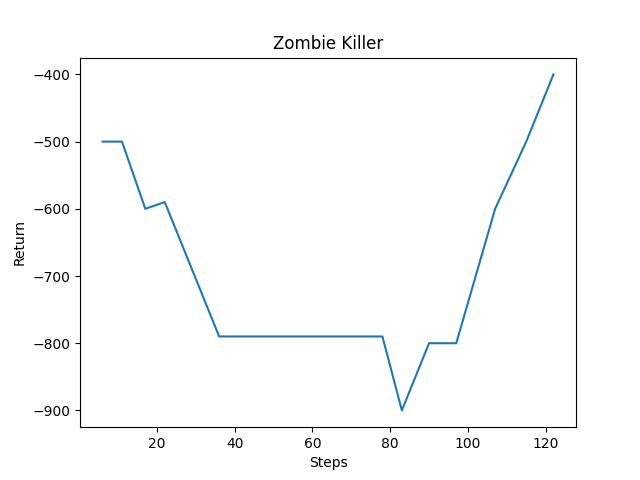
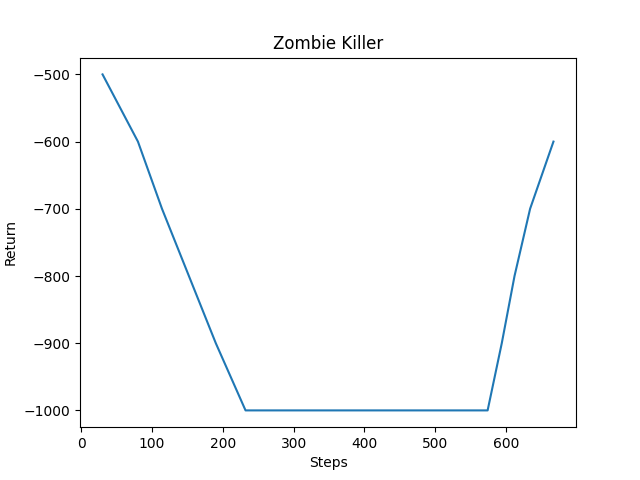
registering the returns properly now

diff --git a/src/world.py b/src/world.py
@@ -15,10 +15,11 @@ class World:
     Create the Malmo environment for a fight arena filled with zombies
     """
 
-    def __init__(self, size, obs_size,num_entities):
+    def __init__(self, size, obs_size,num_entities, episodes = 100):
         self.size = size
         self.obs_size = obs_size
         self.num_entities = num_entities
+        self.episodes = episodes
 
         # Create default Malmo objects:
 
@@ -103,7 +104,6 @@ class World:
                                 self.drawEntity("Zombie") + '''
                         </DrawingDecorator>
 
-                      <ServerQuitFromTimeUp timeLimitMs="15000"/>
                       <ServerQuitWhenAnyAgentFinishes/>
                     </ServerHandlers>
                   </ServerSection>
@@ -121,9 +121,6 @@ class World:
                         <RewardForDamagingEntity>
                             <Mob type="Zombie" reward="100"/>
                         </RewardForDamagingEntity>
-                        <RewardForMissionEnd rewardForDeath="-1000">
-                            <Reward description ="out_of_time" reward="-100"/>
-                        </RewardForMissionEnd>
                         <ObservationFromGrid>
                                 <Grid name="floorAll">
                                     <min x="-''' + str(int(self.obs_size / 2)) + '''" y="-1" z="-''' + str(
@@ -136,7 +133,8 @@ class World:
                             <Range name="entities" xrange="100" yrange="2" zrange="100" update_frequency="1"/>
                         </ObservationFromNearbyEntities>
                       <ObservationFromFullStats/>
-                      <ContinuousMovementCommands turnSpeedDegs="120"/>
+                      <DiscreteMovementCommands/>
+                      <AgentQuitFromReachingCommandQuota total="'''+str(self.episodes)+'''" />
                     </AgentHandlers>
                   </AgentSection>
                 </Mission>'''
@@ -180,7 +178,7 @@ class World:
 
         return self.world_state
 
-    def get_reward(self):
+    def get_reward(self, death, episode_steps):
         """
 
         :return: integer of the reward the agent received
@@ -192,7 +190,10 @@ class World:
             if add == 100:
                 print("hit zombie")
             reward += add
-
+        if death:
+            reward += -1000
+        if episode_steps >= self.episodes:
+            reward += -100
         return reward
 
 
@@ -209,7 +210,7 @@ class World:
             observation: a 2d array
         """
         #only look a obs_size by obs_sive around the agent
-        obs = np.zeros((self.obs_size, self.obs_size))
+        obs = np.zeros((self.obs_size, self.obs_size), dtype = np.float32)
         count = 0
         life = 0
 
@@ -224,19 +225,19 @@ class World:
                 msg = self.world_state.observations[-1].text
                 observations = json.loads(msg)
                 #print("observations", observations)
-                #print("observations full stats", observations['DamageTaken'], observations['Life'])
+                #print("observations full stats", observations[u'Life'])
 
                 # current location of the agent
                 # which will be center of the observation matrix
-                xpos, ypos, zpos = observations['XPos'], observations['YPos'], observations['ZPos']
-                yaw = observations['Yaw']
-                life = observations['Life']
-                #print("current", xpos,zpos)
+                xpos, ypos, zpos = observations[u'XPos'], observations[u'YPos'], observations[u'ZPos']
+                yaw = observations[u'Yaw']
+                life = observations[u'Life']
+                #print("current", xpos,zpos, yaw)
 
                 halfway = self.obs_size//2
 
                 # Get observation with location of all the zombies
-                entities = observations['entities']
+                entities = observations[u'entities']
                 #print("entitites", entities)
                 for e in entities:
 
@@ -244,11 +245,12 @@ class World:
                         count += 1
                         x = int(e['x'])
                         z = int(e['z'])
-                        #print("zombie location",x,z)
+
 
                         if abs(x-xpos) <= halfway and abs(z-zpos) <= halfway:
                              i = x - xpos + halfway
                              j = z - zpos + halfway
+                             #print("zombie location", x, z, i , j)
 
                              #had to flip i and j to match row and column to the x,z coords in malmo
                              obs[int(j)][int(i)] = 1
@@ -257,16 +259,16 @@ class World:
                 # need to fix the rotation of the observation
                 # axes of the observation are 1-d
                 # rotate it so the zombie in front of him is in front of him if we look at the matrix
-                #print("observations", obs)
+
                 # Rotate observation with orientation of agent
 
-                if yaw == 90:
+                if yaw == 270:
                     obs = np.rot90(obs, k=1)
-                elif yaw == 0:
+                elif yaw == 180:
                     obs = np.rot90(obs, k=2)
-                elif yaw == -90:
+                elif yaw == 90:
                     obs = np.rot90(obs, k=3)
-
+                #print("observation", obs)
                 break
 
 

diff --git a/src/train.py b/src/train.py
@@ -71,14 +71,14 @@ def main():
     #have the first layer of the DQN be the flattened size of the observation
 
     agent = Agent(alpha=LEARNING_RATE, gamma = GAMMA, epsilon = epsilon,
-                  input_dims = [OBS_SIZE,OBS_SIZE],batch_size = BATCH_SIZE,
+                  input_dims = (OBS_SIZE,OBS_SIZE),batch_size = BATCH_SIZE,
                   n_actions = len(ACTION_DICT), max_mem_size = 100000, eps_end = MIN_EPSILON,
                   eps_dec = EPSILON_DECAY)
 
 
 
     #create the Malmo world environment
-    world = World(size = SIZE, obs_size = OBS_SIZE, num_entities = 5)
+    world = World(size = SIZE, obs_size = OBS_SIZE, num_entities = 5, episodes = MAX_EPISODE_STEPS)
 
     # Init vars
     global_step = 0
@@ -109,11 +109,11 @@ def main():
 
         #get the first observation
         obs , zombies_count , health = world.get_observation()
-
+        death = False
         # Run the episode
         while world.is_mission_running:
-            print(".", end="")
-            time.sleep(0.1)
+            # print(".", end="")
+            # time.sleep(0.1)
 
             # Get action
             action_idx = agent.choose_action(obs)
@@ -124,7 +124,7 @@ def main():
             agent_host.sendCommand(command)
 
             # If your agent isn't registering reward you may need to increase this
-            time.sleep(2)
+            time.sleep(0.1)
 
             episode_step += 1
 
@@ -134,9 +134,12 @@ def main():
             # 3. episode has take maximum steps
             if zombies_count == 0 or health == 0 or episode_step >= MAX_EPISODE_STEPS:
                 done = True
+                if episode_step >= MAX_EPISODE_STEPS:
+                    agent_host.sendCommand("quit")
                 time.sleep(2)
 
-
+            if health == 0:
+                death = True
             # Get next observation
             world_state = world.get_world_state()
 
@@ -146,7 +149,7 @@ def main():
             next_obs, zombies_count, health = world.get_observation()
 
             # Get reward
-            reward = world.get_reward()
+            reward = world.get_reward(death, episode_steps = episode_step)
             episode_return += reward
 
             # Store step in replay buffer
@@ -158,6 +161,8 @@ def main():
             global_step += 1
             if global_step > START_TRAINING and global_step % LEARN_FREQUENCY == 0:
                 loss = agent.learn()
+                if loss == None:
+                    loss = 0
                 episode_loss += loss
 
 

diff --git a/src/agent.py b/src/agent.py
@@ -22,7 +22,7 @@ class DeepQNetwork(nn.Module):
         self.n_actions = n_actions   #number of actions
 
         #create the deep learning layers
-        self.fc1 = nn.Linear(*self.input_dims,self.fc1_dims)
+        self.fc1 = nn.Linear(np.prod(self.input_dims),self.fc1_dims)
         self.fc2 = nn.Linear(self.fc1_dims,self.fc2_dims)
         self.fc3 = nn.Linear(self.fc2_dims,self.n_actions)
 
@@ -39,12 +39,21 @@ class DeepQNetwork(nn.Module):
     def forward(self,state):
         """
 
-        :param state:
-        :return:
+        :param state: the observation or state of the agent right now
+        :return: the probabilities associated with each of the actions
         """
+        #flatten the observation matrix
 
-        x = F.relu(self.fc1(state))
-        x = F.relu(self.fc1(x))
+        #flattening the batch -> (batch_size, obs_size, obs_size)
+        if len(state.size()) > 2:
+            obs = T.flatten(state,start_dim=1,end_dim=2)
+        else:
+            #individual observation
+            obs = T.flatten(state)
+
+
+        x = F.relu(self.fc1(obs))
+        x = F.relu(self.fc2(x))
         actions = self.fc3(x)
 
         return actions
@@ -139,6 +148,7 @@ class Agent:
         :return: an int value that maps to a action in the action space
         """
 
+
         #choose the max q-value action
         if np.random.random() > self.epsilon:
             state = T.tensor([observation]).to(self.Q_eval.device)
@@ -169,10 +179,10 @@ class Agent:
         batch_index = np.arange(self.batch_size, dtype=np.int32)
 
         #prepare the batch
-        state_batch = T.tensor(self.state_memory[batch].to(self.Q_eval.device))
-        new_state_batch = T.tensor(self.new_state_memory[batch].to(self.Q_eval.device))
-        reward_batch = T.tensor(self.reward_memory[batch].to(self.Q_eval.device))
-        terminal_batch = T.tensor(self.terminal_memory[batch].to(self.Q_eval.device))
+        state_batch = T.tensor(self.state_memory[batch]).to(self.Q_eval.device)
+        new_state_batch = T.tensor(self.new_state_memory[batch]).to(self.Q_eval.device)
+        reward_batch = T.tensor(self.reward_memory[batch]).to(self.Q_eval.device)
+        terminal_batch = T.tensor(self.terminal_memory[batch]).to(self.Q_eval.device)
 
         action_batch = self.action_memory[batch]
 
@@ -195,7 +205,8 @@ class Agent:
 
 
         #for measuring purposes return the loss
-        return loss
+
+        return loss if loss!=None else 0
 
 
 
